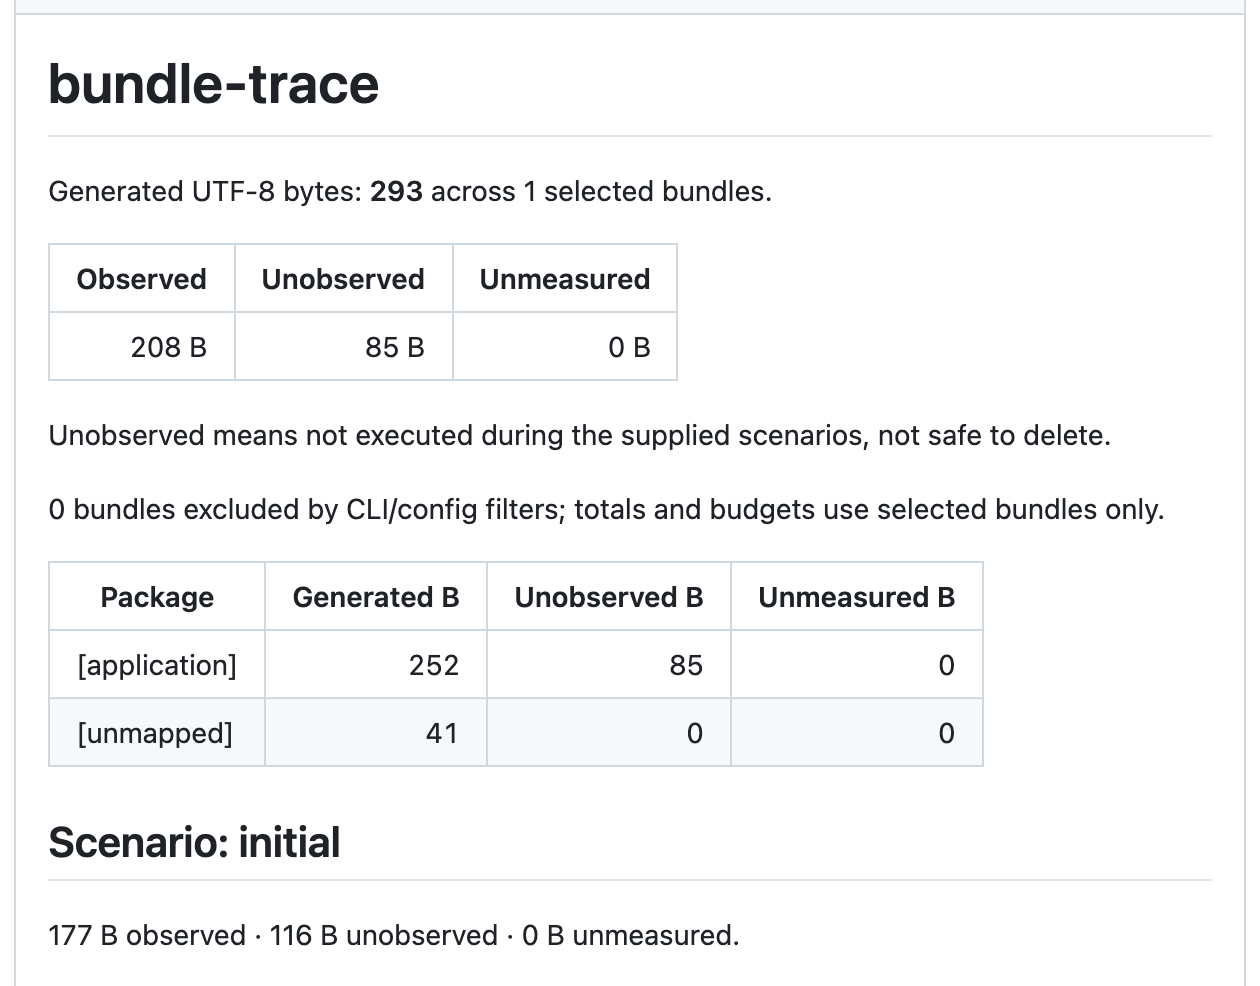
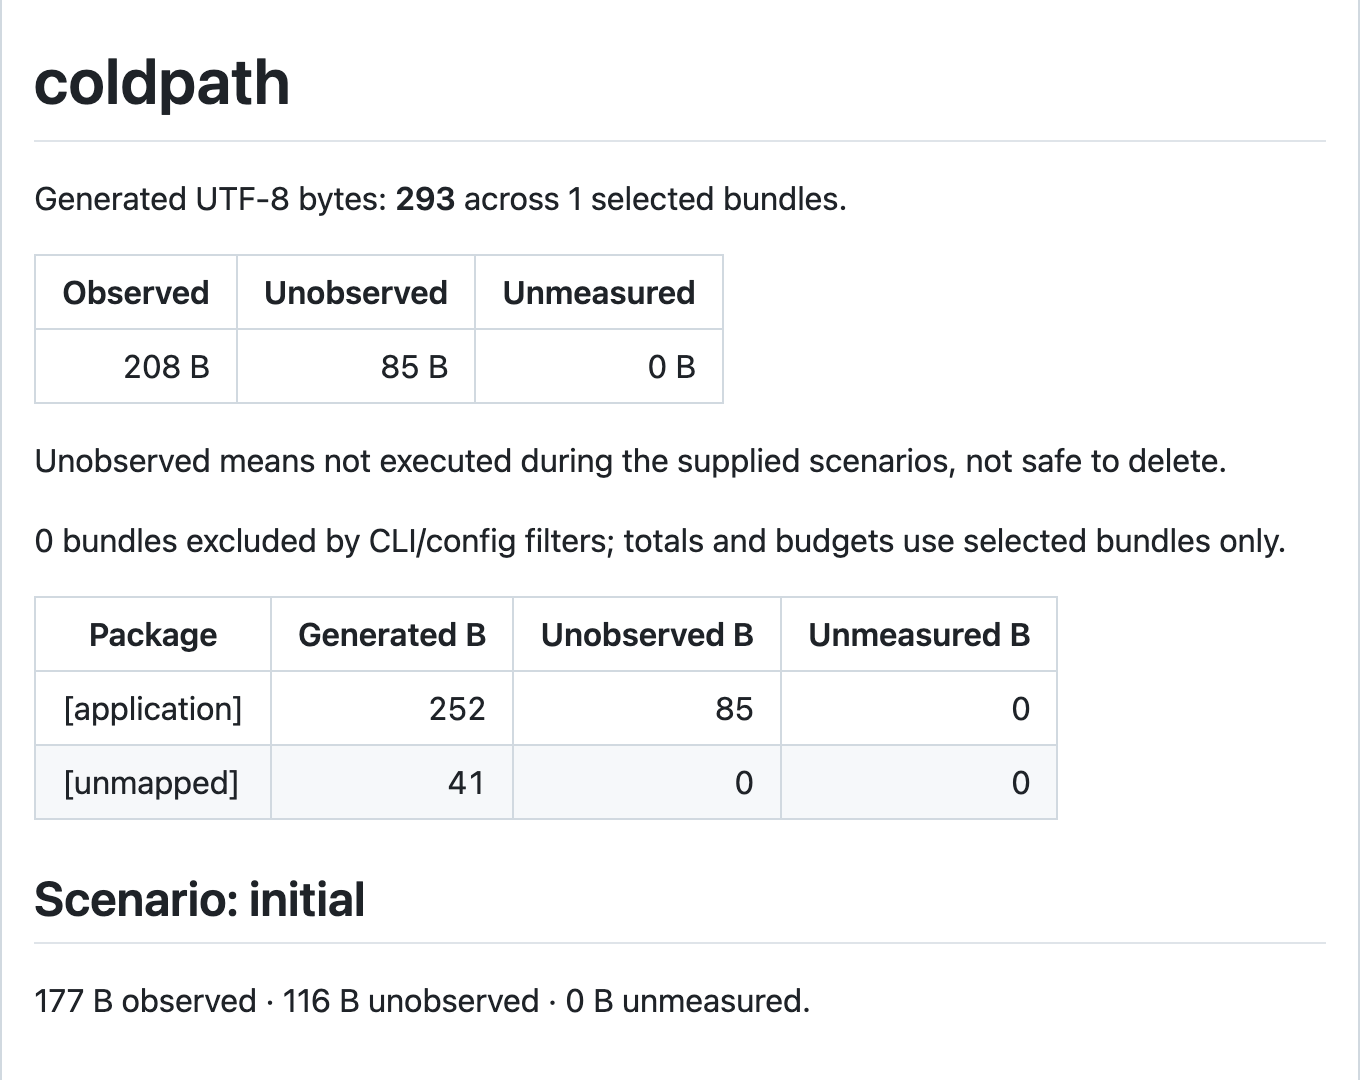
🔥 Remove remaining bundle-trace names from data and fixtures

Changed region(s): [[0.0, 0.0, 0.9595, 1.0], [0.9595, 0.0, 1.0, 1.0]]

diff --git a/examples/recorded/entry.js b/examples/recorded/entry.js
@@ -1,2 +1,2 @@
-(()=>{function r(){return function(t){return t?"한🔥":"다른 경로"}}function e(){throw new Error("This function must remain unobserved")}globalThis.__startupCount=(globalThis.__startupCount??0)+1;globalThis.__bundleTrace={run:r(),unusedFeature:e};})();
+(()=>{function r(){return function(t){return t?"한🔥":"다른 경로"}}function e(){throw new Error("This function must remain unobserved")}globalThis.__startupCount=(globalThis.__startupCount??0)+1;globalThis.__coldpathApp={run:r(),unusedFeature:e};})();
 //# sourceMappingURL=entry.js.map

diff --git a/fixtures/corpus/chart.js b/fixtures/corpus/chart.js
@@ -1,6 +1,6 @@
 export function drawChart(value) {
-  return 'BT_CORPUS_CHART_' + value.toString(16);
+  return 'CP_CORPUS_CHART_' + value.toString(16);
 }
 export function neverDrawn(value) {
-  return 'BT_CORPUS_NEVER_' + value.toString(8);
+  return 'CP_CORPUS_NEVER_' + value.toString(8);
 }

diff --git a/fixtures/entry.js b/fixtures/entry.js
@@ -1,4 +1,4 @@
 import {makeFeature, unusedFeature} from './feature.js'
 import './startup.js'
 
-globalThis.__bundleTrace = {run: makeFeature(), unusedFeature}
+globalThis.__coldpathApp = {run: makeFeature(), unusedFeature}

diff --git a/fixtures/corpus/search.js b/fixtures/corpus/search.js
@@ -1,3 +1,3 @@
 export function search(value) {
-  return 'BT_CORPUS_SEARCH_' + value.toLowerCase();
+  return 'CP_CORPUS_SEARCH_' + value.toLowerCase();
 }

diff --git a/fixtures/corpus/startup.js b/fixtures/corpus/startup.js
@@ -1,3 +1,3 @@
 export function startup() {
-  return 'BT_CORPUS_STARTUP_한🔥';
+  return 'CP_CORPUS_STARTUP_한🔥';
 }

diff --git a/benchmarks/measure.py b/benchmarks/measure.py
@@ -81,8 +81,8 @@ metadata={
     'cpu':subprocess.check_output(['sysctl','-n','machdep.cpu.brand_string'],text=True).strip() if platform.system()=='Darwin' else platform.processor(),
     'node':subprocess.check_output([args.node,'--version'],text=True).strip(),
     'rust':subprocess.check_output(['rustc','--version'],text=True).strip(),
-    'bundleTraceCommit':subprocess.check_output(['git','rev-parse','HEAD'],text=True).strip(),
-    'bundleTraceBinarySha256':hashlib.sha256(Path('target/release/coldpath').read_bytes()).hexdigest(),
+    'coldpathCommit':subprocess.check_output(['git','rev-parse','HEAD'],text=True).strip(),
+    'coldpathBinarySha256':hashlib.sha256(Path('target/release/coldpath').read_bytes()).hexdigest(),
     'tools':{'coldpath':'0.1.0','source-map-explorer':'2.5.3','monocart-coverage-reports':'2.13.0'},
     'rounds':args.rounds, 'warmupsPerJob':1, 'shuffleSeed':20260923,
     'method':'Fresh serial processes, warm filesystem cache, wall clock including startup and report writing, wait4 per-child peak RSS. Input conversion/build/install/browser capture excluded. HTML means one self-contained file; JSON schemas and report features differ.',

diff --git a/README.md b/README.md
@@ -335,6 +335,6 @@ The current Next.js fixture exposes **22 incorrectly attributed probe bytes out 
 
 ## Origin and license
 
-Extracted from the [`bundle-trace` experiment in yceffort/blog](https://github.com/yceffort/blog/tree/7f33d3bccd6ebc71d7c26c07a2527ced07846c3b/experiments/bundle-trace). The original repository keeps the blog-specific performance studies and measurement data; this repository maintains the reusable analyzer and collector.
+Extracted from an experiment in [yceffort/blog](https://github.com/yceffort/blog). The original repository keeps the blog-specific performance studies and measurement data; this repository maintains the reusable analyzer and collector.
 
 [MIT](LICENSE) © 2026 yceffort.
